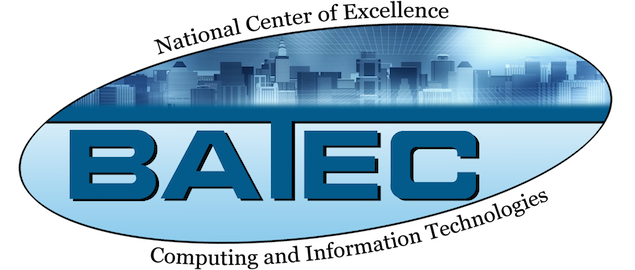
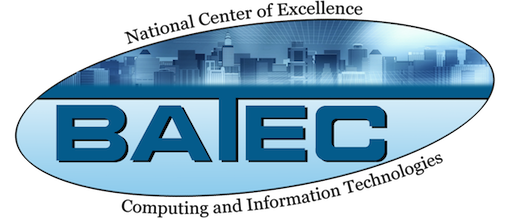
Updated Sponsor List
- Included links
- Reformatted images to 218px height
- Need to add classes for organization

diff --git a/index.html b/index.html
@@ -357,19 +357,32 @@
 
         </div>  
         <br><br><br>    
+        
     </section>
     
     <section id="sponsors">
         <div class="container text-center">
             <br><br><br>
             <h2>Sponsors</h2>
-            <img src="img/wef.png"></img>
-            <img src="img/Batec.png"></img>
+            <a href="https://www.wellesleyeducationfoundation.org/">
+                <img src="img/wef.png"></img>
+            </a>
+            <a href="ttp://batec.org/">
+                <img src="img/Batec.png"></img>
+            </a>
+            <a href="https://lob.com/">
+                <img src="img/LobLogo.png"></img>
+            </a>
+            <a href="http://launchsummer.org/">
+                <img src="img/LaunchLogo.png"></img>
+            </a>
             <br><br><br>
             <a class="btn btn-default btn2" href="sponsorship.pdf" role="button">Interested in Sponsoring?</a>
 
         </div>
-    </section>
+    </section>-
+
+    
     <br><br><br>
 
     <section id="speakers">

diff --git a/css/css.css b/css/css.css
@@ -17,6 +17,8 @@ table, th, td {
 }
 .navbar {
     background-color:#64B5F6 !important;
+    border-bottom:1px !important;
+    border-color:white !important;
 }
 
 /*button */
